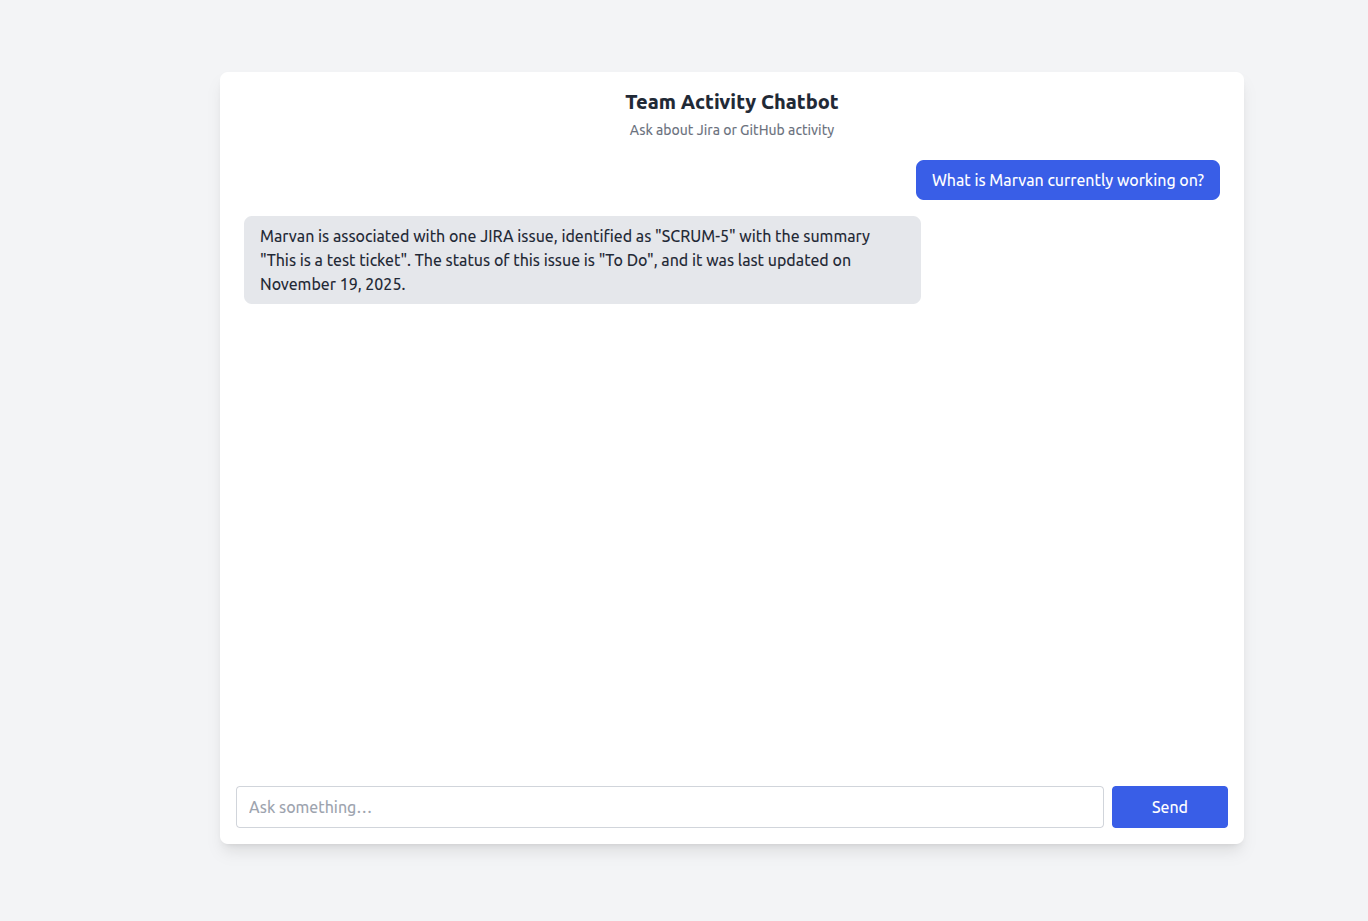
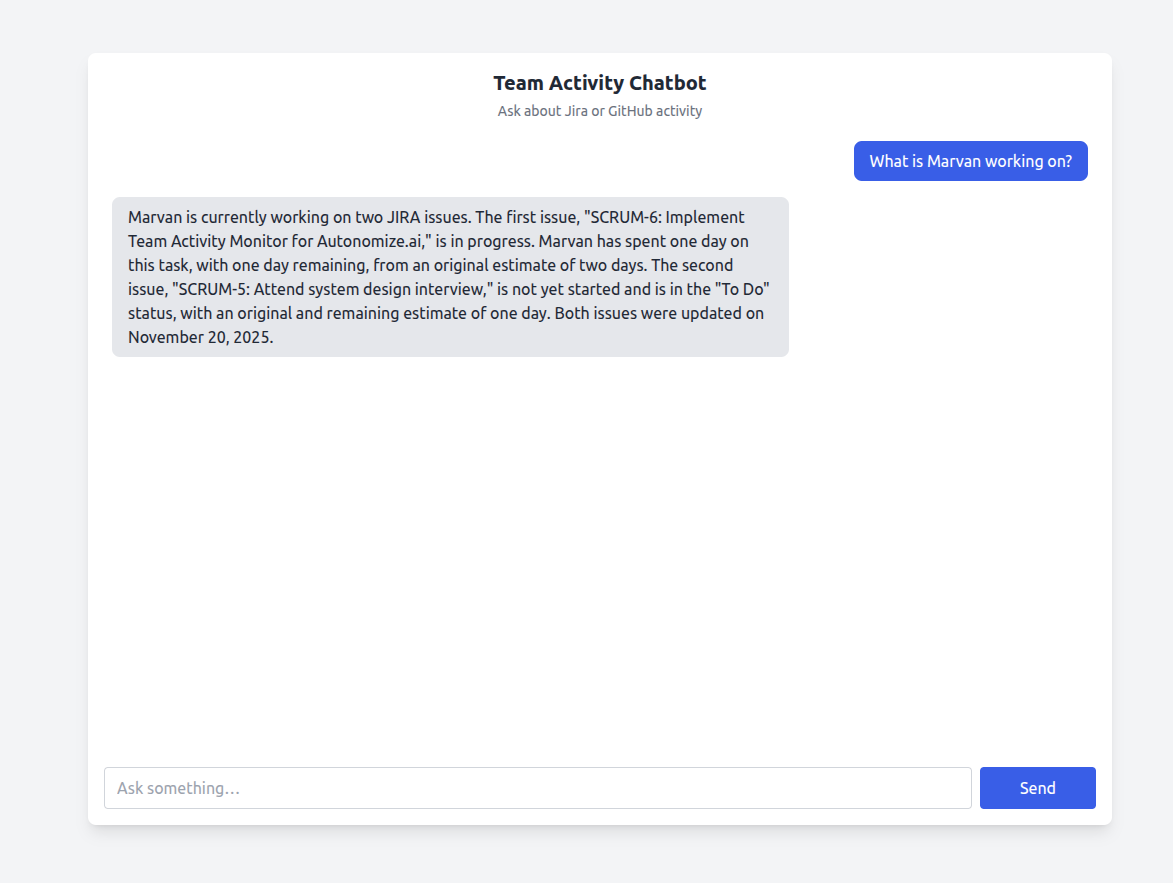
Updated the README.md document with screenshots

Changed region(s): [[0.0921, 0.1529, 0.9514, 0.4281], [0.0921, 0.8256, 0.9514, 0.9479], [0.4297, 0.0612, 0.6138, 0.1529]]

diff --git a/src/services/jira-client.js b/src/services/jira-client.js
@@ -13,7 +13,7 @@ export async function getUserIssues(username) {
   const url = `${jira.baseUrl}/rest/api/3/search/jql`;
   const body = {
     jql,
-    fields: ['summary', 'status', 'updated'],
+    fields: ['summary', 'status', 'updated', 'timetracking'],
   };
 
   const response = await axios.post(url, body, authHeader);
@@ -23,5 +23,6 @@ export async function getUserIssues(username) {
     summary: issue.fields.summary,
     status: issue.fields.status.name,
     updated: issue.fields.updated,
+    timetracking: issue.fields.timetracking
   }));
 }

diff --git a/public/index.html b/public/index.html
@@ -20,6 +20,7 @@
           id="query"
           class="flex-1 border border-gray-300 rounded px-3 py-2 focus:outline-blue-500"
           placeholder="Ask something…"
+          autofocus
         />
         <button onclick="ask()" class="bg-blue-600 text-white px-10 py-2 rounded hover:bg-blue-700">
           Send

diff --git a/README.md b/README.md
@@ -10,6 +10,10 @@ Team Activity Monitor is a lightweight Express + browser UI that lets you ask ab
 ## Installation
 
 1. Clone this repository and switch into the project directory:
+   ```bash
+   git clone git@github.com:mohammedmarvan/team-activity-monitor.git
+   cd team-activity-monitor
+   ```
 
 2. Install dependencies:
    ```bash
@@ -81,10 +85,68 @@ To configure your own team mapping:
 
 1. Start the server (`npm run dev` or `npm start`).
 2. Open your browser to `http://localhost:<PORT>` (defaults to `http://localhost:3000`).
-3. Enter a natural-language query such as “Show GitHub activity for Marvan this week”.
+3. Enter a natural-language query such as "Show GitHub activity for Marvan this week".
 4. The chat window displays:
    - Your prompt bubbles on the right.
    - Formatted Jira/GitHub summaries on the left (parsed via `marked` for Markdown).
 5. Monitor `logs/app.log` (or the terminal) for request/response traces if troubleshooting.
+
+## Workflow & Usage
+
+The Team Activity Monitor provides an intuitive chat interface to query team member activity. Here's how it works:
+
+### Getting Started
+
+Once the server is running, you'll see the chat interface. Simply type your question in natural language about any team member's activity.
+
+### Example Queries
+
+- "What is Marvan's GitHub activity?"
+- "Show me Jira issues for Abhishek"
+- "What has Mohammed been working on?"
+
+### Workflow Screenshots
+
+#### 1. Loading State
+When you submit a query, the system shows a loading indicator while fetching data from Jira and/or GitHub:
+
+![Loading State](screenshots/Screenshot_loading.png)
+
+#### 2. GitHub Activity Summary
+When querying GitHub activity, you'll see a detailed summary of commits and pull requests:
+
+![GitHub Summary](screenshots/Screenshot_github_summary.png)
+
+#### 3. Jira Activity Summary
+For Jira queries, the system displays active issues assigned to the team member:
+
+![Jira Summary](screenshots/Screenshot_jira_summary.png)
+
+#### 4. Combined Activity Summary
+When querying both platforms or general activity, you'll get a comprehensive overview:
+
+![Activity Summary](screenshots/Screenshot_activity_summary.png)
+
+#### 5. No Activity Found
+If a team member has no recent activity, the system will inform you:
+
+![No Activity](screenshots/Screenshot_no_activity.png)
+
+#### 6. No Jira Found
+If the system cannot find any activity on the Jira:
+
+![No Jira Found](screenshots/Screenshot_no_jira_found.png)
+
+#### 7. No User Found
+If the system cannot identify the team member from your query:
+
+![No User Found](screenshots/Screenshot_no_user_found.png)
+
+### How It Works
+
+1. **Query Parsing**: Your natural language query is parsed to extract the team member's name and intent (Jira, GitHub, or both).
+2. **Data Fetching**: The system queries the appropriate APIs (Jira, GitHub) based on the intent.
+3. **Response Generation**: Using OpenAI, the system generates a human-readable summary of the activity.
+4. **Display**: The formatted response is displayed in the chat interface with proper Markdown rendering.
 
 With the environment configured and the server running, you can now monitor teammate activity across Jira and GitHub in one place.
